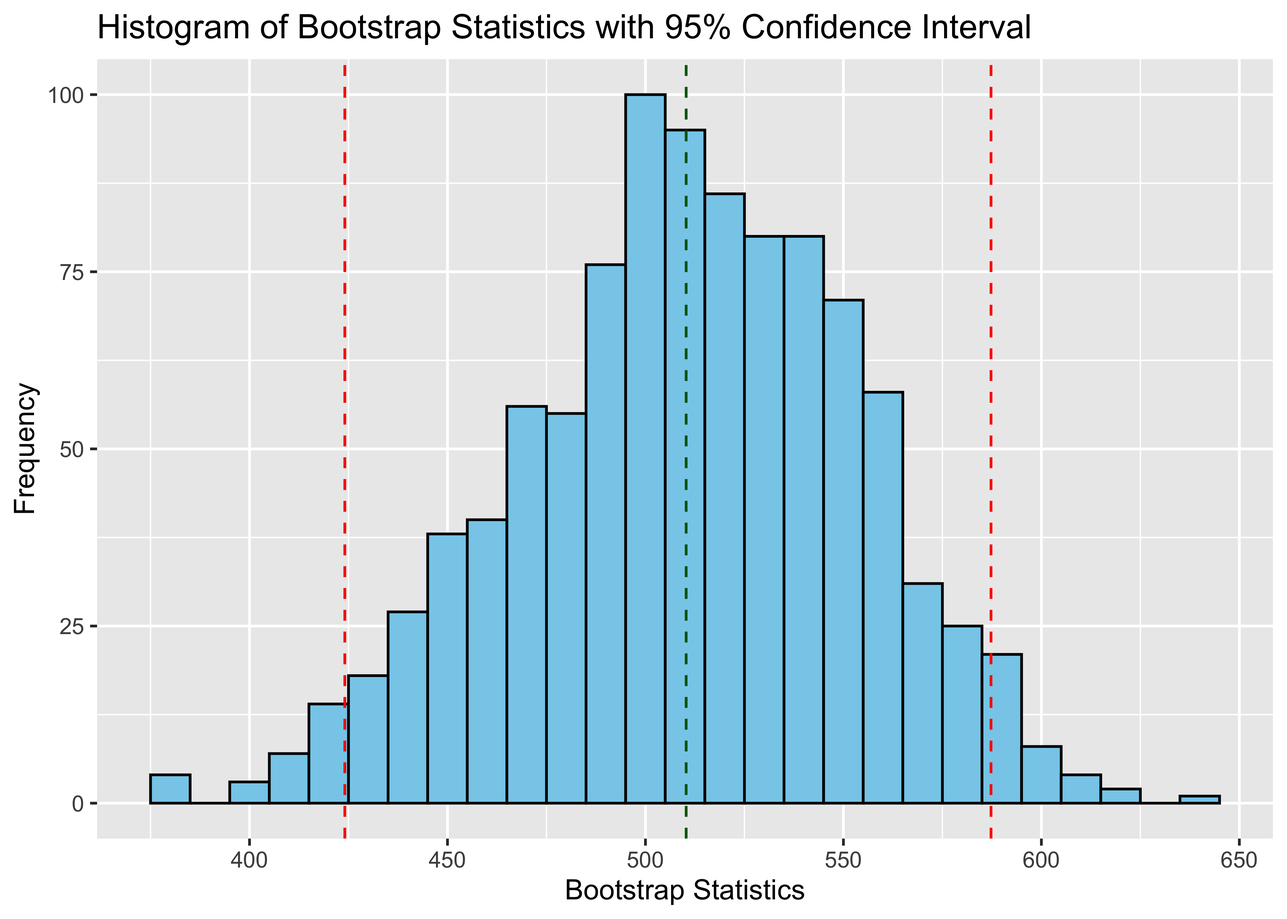
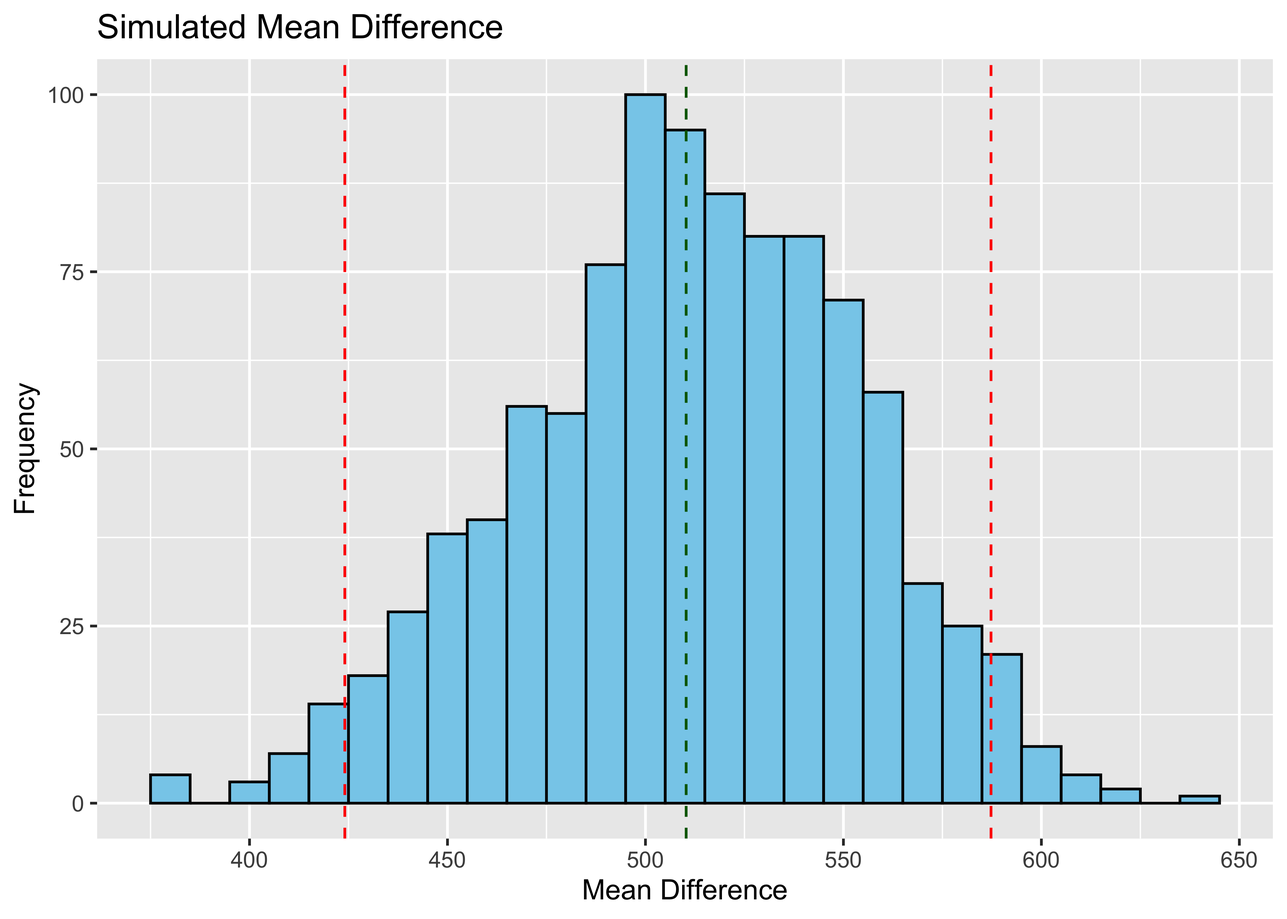
added bootstrap working

Changed region(s): [[0.0624, 0.0, 0.811, 0.062], [0.4367, 0.961, 0.6238, 0.992]]

diff --git a/docs/bootstrap.html b/docs/bootstrap.html
@@ -342,7 +342,7 @@ $(document).ready(function () {
       <a href="subsetting.html">Choosing a Subset</a>
     </li>
     <li>
-      <a href="cleaning.html">Data Cleaning and Feature Selection</a>
+      <a href="cleaning.html">Exploratory Data Analysis and General Cleaning</a>
     </li>
     <li>
       <a href="bootstrap.html">Bootstrapping: Minimum/Maximum Differences</a>
@@ -395,22 +395,13 @@ times to create a normal distribution. this will give us a confidence
 interval of that change.</p>
 <p>We will do this process multile times and thus create a confedience
 interval of those as well for an added layer of certainty.</p>
-<div class="sourceCode" id="cb1"><pre class="sourceCode r"><code class="sourceCode r"><span id="cb1-1"><a href="#cb1-1" tabindex="-1"></a><span class="fu">library</span>(<span class="st">&quot;sf&quot;</span>)</span></code></pre></div>
-<pre><code>## Linking to GEOS 3.11.0, GDAL 3.5.3, PROJ 9.1.0; sf_use_s2() is TRUE</code></pre>
-<div class="sourceCode" id="cb3"><pre class="sourceCode r"><code class="sourceCode r"><span id="cb3-1"><a href="#cb3-1" tabindex="-1"></a><span class="fu">library</span>(<span class="st">&quot;ggplot2&quot;</span>)</span>
-<span id="cb3-2"><a href="#cb3-2" tabindex="-1"></a><span class="fu">library</span>(<span class="st">&quot;readr&quot;</span>)</span>
-<span id="cb3-3"><a href="#cb3-3" tabindex="-1"></a><span class="fu">library</span>(<span class="st">&quot;tidyverse&quot;</span>)</span></code></pre></div>
-<pre><code>## ── Attaching core tidyverse packages ───────────────────────────────────────────────── tidyverse 2.0.0 ──
-## ✔ dplyr     1.1.4     ✔ stringr   1.5.1
-## ✔ forcats   1.0.0     ✔ tibble    3.2.1
-## ✔ lubridate 1.9.3     ✔ tidyr     1.3.0
-## ✔ purrr     1.0.2</code></pre>
-<pre><code>## ── Conflicts ─────────────────────────────────────────────────────────────────── tidyverse_conflicts() ──
-## ✖ dplyr::filter() masks stats::filter()
-## ✖ dplyr::lag()    masks stats::lag()
-## ℹ Use the conflicted package (&lt;http://conflicted.r-lib.org/&gt;) to force all conflicts to become errors</code></pre>
-<div class="sourceCode" id="cb6"><pre class="sourceCode r"><code class="sourceCode r"><span id="cb6-1"><a href="#cb6-1" tabindex="-1"></a><span class="co">#import cleaned dataset:</span></span>
-<span id="cb6-2"><a href="#cb6-2" tabindex="-1"></a>RS_full <span class="ot">&lt;-</span> <span class="fu">read_csv</span>(<span class="st">&quot;china_clean.csv&quot;</span>)</span></code></pre></div>
+<div class="sourceCode" id="cb1"><pre class="sourceCode r"><code class="sourceCode r"><span id="cb1-1"><a href="#cb1-1" tabindex="-1"></a><span class="fu">library</span>(<span class="st">&quot;sf&quot;</span>)</span>
+<span id="cb1-2"><a href="#cb1-2" tabindex="-1"></a><span class="fu">library</span>(<span class="st">&quot;ggplot2&quot;</span>)</span>
+<span id="cb1-3"><a href="#cb1-3" tabindex="-1"></a><span class="fu">library</span>(<span class="st">&quot;readr&quot;</span>)</span>
+<span id="cb1-4"><a href="#cb1-4" tabindex="-1"></a><span class="fu">library</span>(<span class="st">&quot;tidyverse&quot;</span>)</span>
+<span id="cb1-5"><a href="#cb1-5" tabindex="-1"></a><span class="fu">library</span>(<span class="st">&quot;tibble&quot;</span>)</span></code></pre></div>
+<div class="sourceCode" id="cb2"><pre class="sourceCode r"><code class="sourceCode r"><span id="cb2-1"><a href="#cb2-1" tabindex="-1"></a><span class="co">#import cleaned dataset:</span></span>
+<span id="cb2-2"><a href="#cb2-2" tabindex="-1"></a>RS_full <span class="ot">&lt;-</span> <span class="fu">read_csv</span>(<span class="st">&quot;china_clean.csv&quot;</span>)</span></code></pre></div>
 <pre><code>## Rows: 259 Columns: 74
 ## ── Column specification ─────────────────────────────────────────────────────────────────────────────────
 ## Delimiter: &quot;,&quot;
@@ -419,9 +410,9 @@ interval of those as well for an added layer of certainty.</p>
 ## 
 ## ℹ Use `spec()` to retrieve the full column specification for this data.
 ## ℹ Specify the column types or set `show_col_types = FALSE` to quiet this message.</code></pre>
-<div class="sourceCode" id="cb8"><pre class="sourceCode r"><code class="sourceCode r"><span id="cb8-1"><a href="#cb8-1" tabindex="-1"></a><span class="co">#lets just grab the two columns we are interested in:</span></span>
-<span id="cb8-2"><a href="#cb8-2" tabindex="-1"></a>RS <span class="ot">&lt;-</span> RS_full[, <span class="fu">c</span>(<span class="st">&#39;Study_midyear&#39;</span>, <span class="st">&#39;Rs_annual&#39;</span>)]</span>
-<span id="cb8-3"><a href="#cb8-3" tabindex="-1"></a><span class="fu">head</span>(RS)</span></code></pre></div>
+<div class="sourceCode" id="cb4"><pre class="sourceCode r"><code class="sourceCode r"><span id="cb4-1"><a href="#cb4-1" tabindex="-1"></a><span class="co">#lets just grab the two columns we are interested in:</span></span>
+<span id="cb4-2"><a href="#cb4-2" tabindex="-1"></a>RS <span class="ot">&lt;-</span> RS_full[, <span class="fu">c</span>(<span class="st">&#39;Study_midyear&#39;</span>, <span class="st">&#39;Rs_annual&#39;</span>)]</span>
+<span id="cb4-3"><a href="#cb4-3" tabindex="-1"></a><span class="fu">head</span>(RS)</span></code></pre></div>
 <pre><code>## # A tibble: 6 × 2
 ##   Study_midyear Rs_annual
 ##           &lt;dbl&gt;     &lt;dbl&gt;
@@ -431,67 +422,96 @@ interval of those as well for an added layer of certainty.</p>
 ## 4         2004.       781
 ## 5         2004.       514
 ## 6         2004.       403</code></pre>
-<div class="sourceCode" id="cb10"><pre class="sourceCode r"><code class="sourceCode r"><span id="cb10-1"><a href="#cb10-1" tabindex="-1"></a><span class="co">#make a function that can compute the mean difference of a dataframe column:</span></span>
-<span id="cb10-2"><a href="#cb10-2" tabindex="-1"></a>rs_mean <span class="ot">&lt;-</span> <span class="cf">function</span> (data, i){</span>
-<span id="cb10-3"><a href="#cb10-3" tabindex="-1"></a>  highs_and_lows<span class="ot">&lt;-</span> data[i, ] <span class="sc">%&gt;%</span> <span class="fu">group_by</span>(Study_midyear) <span class="sc">%&gt;%</span> <span class="fu">summarize</span>(<span class="at">High =</span> <span class="fu">max</span>(Rs_annual), <span class="at">Min =</span> <span class="fu">min</span>(Rs_annual))</span>
-<span id="cb10-4"><a href="#cb10-4" tabindex="-1"></a>  differences <span class="ot">&lt;-</span> <span class="fu">abs</span>(highs_and_lows<span class="sc">$</span>High <span class="sc">-</span> highs_and_lows<span class="sc">$</span>Min)</span>
-<span id="cb10-5"><a href="#cb10-5" tabindex="-1"></a>  <span class="fu">return</span>(<span class="fu">mean</span>(differences))}</span></code></pre></div>
-<div class="sourceCode" id="cb11"><pre class="sourceCode r"><code class="sourceCode r"><span id="cb11-1"><a href="#cb11-1" tabindex="-1"></a><span class="co"># import the bootstap package</span></span>
-<span id="cb11-2"><a href="#cb11-2" tabindex="-1"></a><span class="fu">library</span>(boot)</span>
-<span id="cb11-3"><a href="#cb11-3" tabindex="-1"></a></span>
-<span id="cb11-4"><a href="#cb11-4" tabindex="-1"></a>one_bootstrap <span class="ot">&lt;-</span> <span class="cf">function</span>(){</span>
-<span id="cb11-5"><a href="#cb11-5" tabindex="-1"></a>  result <span class="ot">&lt;-</span> <span class="fu">boot</span>(<span class="at">data =</span> RS, <span class="at">statistic =</span> rs_mean, <span class="at">R =</span> <span class="dv">1000</span>)</span>
-<span id="cb11-6"><a href="#cb11-6" tabindex="-1"></a>  <span class="fu">return</span> (result)}</span></code></pre></div>
+<div class="sourceCode" id="cb6"><pre class="sourceCode r"><code class="sourceCode r"><span id="cb6-1"><a href="#cb6-1" tabindex="-1"></a><span class="co">#make a function that can compute the mean difference of a dataframe column:</span></span>
+<span id="cb6-2"><a href="#cb6-2" tabindex="-1"></a>rs_mean <span class="ot">&lt;-</span> <span class="cf">function</span> (data, i){</span>
+<span id="cb6-3"><a href="#cb6-3" tabindex="-1"></a>  highs_and_lows<span class="ot">&lt;-</span> data[i, ] <span class="sc">%&gt;%</span> <span class="fu">group_by</span>(Study_midyear) <span class="sc">%&gt;%</span> <span class="fu">summarize</span>(<span class="at">High =</span> <span class="fu">max</span>(Rs_annual), <span class="at">Min =</span> <span class="fu">min</span>(Rs_annual))</span>
+<span id="cb6-4"><a href="#cb6-4" tabindex="-1"></a>  differences <span class="ot">&lt;-</span> <span class="fu">abs</span>(highs_and_lows<span class="sc">$</span>High <span class="sc">-</span> highs_and_lows<span class="sc">$</span>Min)</span>
+<span id="cb6-5"><a href="#cb6-5" tabindex="-1"></a>  <span class="fu">return</span>(<span class="fu">mean</span>(differences))}</span></code></pre></div>
+<div class="sourceCode" id="cb7"><pre class="sourceCode r"><code class="sourceCode r"><span id="cb7-1"><a href="#cb7-1" tabindex="-1"></a><span class="co"># import the bootstap package</span></span>
+<span id="cb7-2"><a href="#cb7-2" tabindex="-1"></a><span class="fu">library</span>(boot)</span>
+<span id="cb7-3"><a href="#cb7-3" tabindex="-1"></a></span>
+<span id="cb7-4"><a href="#cb7-4" tabindex="-1"></a>one_bootstrap <span class="ot">&lt;-</span> <span class="cf">function</span>(){</span>
+<span id="cb7-5"><a href="#cb7-5" tabindex="-1"></a>  result <span class="ot">&lt;-</span> <span class="fu">boot</span>(<span class="at">data =</span> RS, <span class="at">statistic =</span> rs_mean, <span class="at">R =</span> <span class="dv">1000</span>)</span>
+<span id="cb7-6"><a href="#cb7-6" tabindex="-1"></a>  <span class="fu">return</span> (result)}</span></code></pre></div>
 <p>Great, now we have some infestructure to run bootstrap simulations.
 First off let’s investigate one bootstrap iteration and its associated
 confidence interval: # visualizing the confidence interval of this one
 bootstraped simmulation:</p>
-<div class="sourceCode" id="cb12"><pre class="sourceCode r"><code class="sourceCode r"><span id="cb12-1"><a href="#cb12-1" tabindex="-1"></a><span class="co">#get one set bootstrap statistics</span></span>
-<span id="cb12-2"><a href="#cb12-2" tabindex="-1"></a>boot_results <span class="ot">&lt;-</span> <span class="fu">one_bootstrap</span>()<span class="sc">$</span>t</span>
-<span id="cb12-3"><a href="#cb12-3" tabindex="-1"></a></span>
-<span id="cb12-4"><a href="#cb12-4" tabindex="-1"></a><span class="co"># find the mean and CI </span></span>
-<span id="cb12-5"><a href="#cb12-5" tabindex="-1"></a>boot_mean <span class="ot">&lt;-</span> <span class="fu">mean</span>(boot_results)</span>
-<span id="cb12-6"><a href="#cb12-6" tabindex="-1"></a><span class="co">#we are looking at the middle 95%</span></span>
-<span id="cb12-7"><a href="#cb12-7" tabindex="-1"></a>boot_ci <span class="ot">&lt;-</span> <span class="fu">quantile</span>(boot_results, <span class="fu">c</span>(<span class="fl">0.025</span>, <span class="fl">0.975</span>))</span>
-<span id="cb12-8"><a href="#cb12-8" tabindex="-1"></a></span>
-<span id="cb12-9"><a href="#cb12-9" tabindex="-1"></a><span class="co"># for plotting the data, we can all of the sub iterations into a DataFrame</span></span>
-<span id="cb12-10"><a href="#cb12-10" tabindex="-1"></a>plot_data <span class="ot">&lt;-</span> <span class="fu">data.frame</span>(<span class="at">mean_statistic =</span> boot_results)</span>
-<span id="cb12-11"><a href="#cb12-11" tabindex="-1"></a></span>
-<span id="cb12-12"><a href="#cb12-12" tabindex="-1"></a><span class="co"># Plot using ggplot2</span></span>
-<span id="cb12-13"><a href="#cb12-13" tabindex="-1"></a><span class="fu">ggplot</span>(plot_data, <span class="fu">aes</span>(<span class="at">x =</span> mean_statistic)) <span class="sc">+</span></span>
-<span id="cb12-14"><a href="#cb12-14" tabindex="-1"></a>  <span class="fu">geom_histogram</span>(<span class="at">binwidth =</span> <span class="dv">10</span>, <span class="at">fill =</span> <span class="st">&quot;skyblue&quot;</span>, <span class="at">color =</span> <span class="st">&quot;black&quot;</span>) <span class="sc">+</span></span>
-<span id="cb12-15"><a href="#cb12-15" tabindex="-1"></a>  <span class="co">#Plotting the CI</span></span>
-<span id="cb12-16"><a href="#cb12-16" tabindex="-1"></a>  <span class="fu">geom_vline</span>(<span class="at">xintercept =</span> boot_ci[<span class="dv">1</span>], <span class="at">color =</span> <span class="st">&quot;red&quot;</span>, <span class="at">linetype =</span> <span class="st">&quot;dashed&quot;</span>) <span class="sc">+</span></span>
-<span id="cb12-17"><a href="#cb12-17" tabindex="-1"></a>  <span class="fu">geom_vline</span>(<span class="at">xintercept =</span> boot_ci[<span class="dv">2</span>], <span class="at">color =</span> <span class="st">&quot;red&quot;</span>, <span class="at">linetype =</span> <span class="st">&quot;dashed&quot;</span>) <span class="sc">+</span></span>
-<span id="cb12-18"><a href="#cb12-18" tabindex="-1"></a>  <span class="co">#plotting the mean</span></span>
-<span id="cb12-19"><a href="#cb12-19" tabindex="-1"></a>  <span class="fu">geom_vline</span>(<span class="at">xintercept =</span> boot_mean, <span class="at">color =</span> <span class="st">&quot;darkgreen&quot;</span>, <span class="at">linetype =</span> <span class="st">&quot;dashed&quot;</span>) <span class="sc">+</span></span>
-<span id="cb12-20"><a href="#cb12-20" tabindex="-1"></a>  <span class="fu">labs</span>(<span class="at">x =</span> <span class="st">&quot;Bootstrap Statistics&quot;</span>, <span class="at">y =</span> <span class="st">&quot;Frequency&quot;</span>) <span class="sc">+</span></span>
-<span id="cb12-21"><a href="#cb12-21" tabindex="-1"></a>  <span class="fu">ggtitle</span>(<span class="st">&quot;Histogram of Bootstrap Statistics with 95% Confidence Interval&quot;</span>)</span></code></pre></div>
+<div class="sourceCode" id="cb8"><pre class="sourceCode r"><code class="sourceCode r"><span id="cb8-1"><a href="#cb8-1" tabindex="-1"></a><span class="co">#get one set bootstrap statistics</span></span>
+<span id="cb8-2"><a href="#cb8-2" tabindex="-1"></a>boot_results <span class="ot">&lt;-</span> <span class="fu">one_bootstrap</span>()<span class="sc">$</span>t</span>
+<span id="cb8-3"><a href="#cb8-3" tabindex="-1"></a></span>
+<span id="cb8-4"><a href="#cb8-4" tabindex="-1"></a><span class="co"># find the mean and CI </span></span>
+<span id="cb8-5"><a href="#cb8-5" tabindex="-1"></a>boot_mean <span class="ot">&lt;-</span> <span class="fu">mean</span>(boot_results)</span>
+<span id="cb8-6"><a href="#cb8-6" tabindex="-1"></a><span class="co">#we are looking at the middle 95%</span></span>
+<span id="cb8-7"><a href="#cb8-7" tabindex="-1"></a>boot_ci <span class="ot">&lt;-</span> <span class="fu">quantile</span>(boot_results, <span class="fu">c</span>(<span class="fl">0.025</span>, <span class="fl">0.975</span>))</span>
+<span id="cb8-8"><a href="#cb8-8" tabindex="-1"></a></span>
+<span id="cb8-9"><a href="#cb8-9" tabindex="-1"></a><span class="co"># for plotting the data, we can all of the sub iterations into a DataFrame</span></span>
+<span id="cb8-10"><a href="#cb8-10" tabindex="-1"></a>plot_data <span class="ot">&lt;-</span> <span class="fu">data.frame</span>(<span class="at">mean_statistic =</span> boot_results)</span>
+<span id="cb8-11"><a href="#cb8-11" tabindex="-1"></a></span>
+<span id="cb8-12"><a href="#cb8-12" tabindex="-1"></a><span class="co"># Plot using ggplot2</span></span>
+<span id="cb8-13"><a href="#cb8-13" tabindex="-1"></a><span class="fu">ggplot</span>(plot_data, <span class="fu">aes</span>(<span class="at">x =</span> mean_statistic)) <span class="sc">+</span></span>
+<span id="cb8-14"><a href="#cb8-14" tabindex="-1"></a>  <span class="fu">geom_histogram</span>(<span class="at">binwidth =</span> <span class="dv">10</span>, <span class="at">fill =</span> <span class="st">&quot;skyblue&quot;</span>, <span class="at">color =</span> <span class="st">&quot;black&quot;</span>) <span class="sc">+</span></span>
+<span id="cb8-15"><a href="#cb8-15" tabindex="-1"></a>  <span class="co">#Plotting the CI</span></span>
+<span id="cb8-16"><a href="#cb8-16" tabindex="-1"></a>  <span class="fu">geom_vline</span>(<span class="at">xintercept =</span> boot_ci[<span class="dv">1</span>], <span class="at">color =</span> <span class="st">&quot;red&quot;</span>, <span class="at">linetype =</span> <span class="st">&quot;dashed&quot;</span>) <span class="sc">+</span></span>
+<span id="cb8-17"><a href="#cb8-17" tabindex="-1"></a>  <span class="fu">geom_vline</span>(<span class="at">xintercept =</span> boot_ci[<span class="dv">2</span>], <span class="at">color =</span> <span class="st">&quot;red&quot;</span>, <span class="at">linetype =</span> <span class="st">&quot;dashed&quot;</span>) <span class="sc">+</span></span>
+<span id="cb8-18"><a href="#cb8-18" tabindex="-1"></a>  <span class="co">#plotting the mean</span></span>
+<span id="cb8-19"><a href="#cb8-19" tabindex="-1"></a>  <span class="fu">geom_vline</span>(<span class="at">xintercept =</span> boot_mean, <span class="at">color =</span> <span class="st">&quot;darkgreen&quot;</span>, <span class="at">linetype =</span> <span class="st">&quot;dashed&quot;</span>) <span class="sc">+</span></span>
+<span id="cb8-20"><a href="#cb8-20" tabindex="-1"></a>  <span class="fu">labs</span>(<span class="at">x =</span> <span class="st">&quot;Mean Difference&quot;</span>, <span class="at">y =</span> <span class="st">&quot;Frequency&quot;</span>) <span class="sc">+</span></span>
+<span id="cb8-21"><a href="#cb8-21" tabindex="-1"></a>  <span class="fu">ggtitle</span>(<span class="st">&quot;Simulated Mean Difference&quot;</span>)</span></code></pre></div>
 <p><img src="bootstrap_files/figure-html/unnamed-chunk-5-1.png" width="2100" />
 lets just make sure we get two different sets of results if we run our
 simulation agian:</p>
-<div class="sourceCode" id="cb13"><pre class="sourceCode r"><code class="sourceCode r"><span id="cb13-1"><a href="#cb13-1" tabindex="-1"></a><span class="co">#get one set bootstrap statistics</span></span>
-<span id="cb13-2"><a href="#cb13-2" tabindex="-1"></a>boot_results <span class="ot">&lt;-</span> <span class="fu">one_bootstrap</span>()<span class="sc">$</span>t</span>
-<span id="cb13-3"><a href="#cb13-3" tabindex="-1"></a></span>
-<span id="cb13-4"><a href="#cb13-4" tabindex="-1"></a><span class="co"># find the mean and CI </span></span>
-<span id="cb13-5"><a href="#cb13-5" tabindex="-1"></a>boot_mean <span class="ot">&lt;-</span> <span class="fu">mean</span>(boot_results)</span>
-<span id="cb13-6"><a href="#cb13-6" tabindex="-1"></a><span class="co">#we are looking at the middle 95%</span></span>
-<span id="cb13-7"><a href="#cb13-7" tabindex="-1"></a>boot_ci <span class="ot">&lt;-</span> <span class="fu">quantile</span>(boot_results, <span class="fu">c</span>(<span class="fl">0.025</span>, <span class="fl">0.975</span>))</span>
-<span id="cb13-8"><a href="#cb13-8" tabindex="-1"></a></span>
-<span id="cb13-9"><a href="#cb13-9" tabindex="-1"></a><span class="co"># for plotting the data, we can all of the sub iterations into a DataFrame</span></span>
-<span id="cb13-10"><a href="#cb13-10" tabindex="-1"></a>plot_data <span class="ot">&lt;-</span> <span class="fu">data.frame</span>(<span class="at">mean_statistic =</span> boot_results)</span>
-<span id="cb13-11"><a href="#cb13-11" tabindex="-1"></a></span>
-<span id="cb13-12"><a href="#cb13-12" tabindex="-1"></a><span class="co"># Plot using ggplot2</span></span>
-<span id="cb13-13"><a href="#cb13-13" tabindex="-1"></a><span class="fu">ggplot</span>(plot_data, <span class="fu">aes</span>(<span class="at">x =</span> mean_statistic)) <span class="sc">+</span></span>
-<span id="cb13-14"><a href="#cb13-14" tabindex="-1"></a>  <span class="fu">geom_histogram</span>(<span class="at">binwidth =</span> <span class="dv">10</span>, <span class="at">fill =</span> <span class="st">&quot;skyblue&quot;</span>, <span class="at">color =</span> <span class="st">&quot;black&quot;</span>) <span class="sc">+</span></span>
-<span id="cb13-15"><a href="#cb13-15" tabindex="-1"></a>  <span class="co">#Plotting the CI</span></span>
-<span id="cb13-16"><a href="#cb13-16" tabindex="-1"></a>  <span class="fu">geom_vline</span>(<span class="at">xintercept =</span> boot_ci[<span class="dv">1</span>], <span class="at">color =</span> <span class="st">&quot;red&quot;</span>, <span class="at">linetype =</span> <span class="st">&quot;dashed&quot;</span>) <span class="sc">+</span></span>
-<span id="cb13-17"><a href="#cb13-17" tabindex="-1"></a>  <span class="fu">geom_vline</span>(<span class="at">xintercept =</span> boot_ci[<span class="dv">2</span>], <span class="at">color =</span> <span class="st">&quot;red&quot;</span>, <span class="at">linetype =</span> <span class="st">&quot;dashed&quot;</span>) <span class="sc">+</span></span>
-<span id="cb13-18"><a href="#cb13-18" tabindex="-1"></a>  <span class="co">#plotting the mean</span></span>
-<span id="cb13-19"><a href="#cb13-19" tabindex="-1"></a>  <span class="fu">geom_vline</span>(<span class="at">xintercept =</span> boot_mean, <span class="at">color =</span> <span class="st">&quot;darkgreen&quot;</span>, <span class="at">linetype =</span> <span class="st">&quot;dashed&quot;</span>) <span class="sc">+</span></span>
-<span id="cb13-20"><a href="#cb13-20" tabindex="-1"></a>  <span class="fu">labs</span>(<span class="at">x =</span> <span class="st">&quot;Bootstrap Statistics&quot;</span>, <span class="at">y =</span> <span class="st">&quot;Frequency&quot;</span>) <span class="sc">+</span></span>
-<span id="cb13-21"><a href="#cb13-21" tabindex="-1"></a>  <span class="fu">ggtitle</span>(<span class="st">&quot;Histogram of Bootstrap Statistics with 95% Confidence Interval&quot;</span>)</span></code></pre></div>
-<p><img src="bootstrap_files/figure-html/unnamed-chunk-6-1.png" width="2100" /></p>
+<div class="sourceCode" id="cb9"><pre class="sourceCode r"><code class="sourceCode r"><span id="cb9-1"><a href="#cb9-1" tabindex="-1"></a><span class="co">#get one set bootstrap statistics</span></span>
+<span id="cb9-2"><a href="#cb9-2" tabindex="-1"></a>boot_results <span class="ot">&lt;-</span> <span class="fu">one_bootstrap</span>()<span class="sc">$</span>t</span>
+<span id="cb9-3"><a href="#cb9-3" tabindex="-1"></a></span>
+<span id="cb9-4"><a href="#cb9-4" tabindex="-1"></a><span class="co"># find the mean and CI </span></span>
+<span id="cb9-5"><a href="#cb9-5" tabindex="-1"></a>boot_mean <span class="ot">&lt;-</span> <span class="fu">mean</span>(boot_results)</span>
+<span id="cb9-6"><a href="#cb9-6" tabindex="-1"></a><span class="co">#we are looking at the middle 95%</span></span>
+<span id="cb9-7"><a href="#cb9-7" tabindex="-1"></a>boot_ci <span class="ot">&lt;-</span> <span class="fu">quantile</span>(boot_results, <span class="fu">c</span>(<span class="fl">0.025</span>, <span class="fl">0.975</span>))</span>
+<span id="cb9-8"><a href="#cb9-8" tabindex="-1"></a></span>
+<span id="cb9-9"><a href="#cb9-9" tabindex="-1"></a><span class="co"># for plotting the data, we can all of the sub iterations into a DataFrame</span></span>
+<span id="cb9-10"><a href="#cb9-10" tabindex="-1"></a>plot_data <span class="ot">&lt;-</span> <span class="fu">data.frame</span>(<span class="at">mean_statistic =</span> boot_results)</span>
+<span id="cb9-11"><a href="#cb9-11" tabindex="-1"></a></span>
+<span id="cb9-12"><a href="#cb9-12" tabindex="-1"></a><span class="co"># Plot using ggplot2</span></span>
+<span id="cb9-13"><a href="#cb9-13" tabindex="-1"></a><span class="fu">ggplot</span>(plot_data, <span class="fu">aes</span>(<span class="at">x =</span> mean_statistic)) <span class="sc">+</span></span>
+<span id="cb9-14"><a href="#cb9-14" tabindex="-1"></a>  <span class="fu">geom_histogram</span>(<span class="at">binwidth =</span> <span class="dv">10</span>, <span class="at">fill =</span> <span class="st">&quot;skyblue&quot;</span>, <span class="at">color =</span> <span class="st">&quot;black&quot;</span>) <span class="sc">+</span></span>
+<span id="cb9-15"><a href="#cb9-15" tabindex="-1"></a>  <span class="co">#Plotting the CI</span></span>
+<span id="cb9-16"><a href="#cb9-16" tabindex="-1"></a>  <span class="fu">geom_vline</span>(<span class="at">xintercept =</span> boot_ci[<span class="dv">1</span>], <span class="at">color =</span> <span class="st">&quot;red&quot;</span>, <span class="at">linetype =</span> <span class="st">&quot;dashed&quot;</span>) <span class="sc">+</span></span>
+<span id="cb9-17"><a href="#cb9-17" tabindex="-1"></a>  <span class="fu">geom_vline</span>(<span class="at">xintercept =</span> boot_ci[<span class="dv">2</span>], <span class="at">color =</span> <span class="st">&quot;red&quot;</span>, <span class="at">linetype =</span> <span class="st">&quot;dashed&quot;</span>) <span class="sc">+</span></span>
+<span id="cb9-18"><a href="#cb9-18" tabindex="-1"></a>  <span class="co">#plotting the mean</span></span>
+<span id="cb9-19"><a href="#cb9-19" tabindex="-1"></a>  <span class="fu">geom_vline</span>(<span class="at">xintercept =</span> boot_mean, <span class="at">color =</span> <span class="st">&quot;darkgreen&quot;</span>, <span class="at">linetype =</span> <span class="st">&quot;dashed&quot;</span>) <span class="sc">+</span></span>
+<span id="cb9-20"><a href="#cb9-20" tabindex="-1"></a>  <span class="fu">labs</span>(<span class="at">x =</span> <span class="st">&quot;Mean Difference&quot;</span>, <span class="at">y =</span> <span class="st">&quot;Frequency&quot;</span>) <span class="sc">+</span></span>
+<span id="cb9-21"><a href="#cb9-21" tabindex="-1"></a>  <span class="fu">ggtitle</span>(<span class="st">&quot;Simulated Mean Difference&quot;</span>)</span></code></pre></div>
+<p><img src="bootstrap_files/figure-html/unnamed-chunk-6-1.png" width="2100" />
+Now we can run this simulation a set number of times to determine the
+distribution of bootstrapped means and confidence intervals (because you
+can see that they also vary by simulation)</p>
+<div class="sourceCode" id="cb10"><pre class="sourceCode r"><code class="sourceCode r"><span id="cb10-1"><a href="#cb10-1" tabindex="-1"></a><span class="co">#how many bootstraps to run</span></span>
+<span id="cb10-2"><a href="#cb10-2" tabindex="-1"></a>n <span class="ot">&lt;-</span> <span class="fu">c</span>(<span class="dv">1</span><span class="sc">:</span><span class="dv">10</span>)</span>
+<span id="cb10-3"><a href="#cb10-3" tabindex="-1"></a></span>
+<span id="cb10-4"><a href="#cb10-4" tabindex="-1"></a><span class="co">#creating an empty dataframe to store each new value of the BS</span></span>
+<span id="cb10-5"><a href="#cb10-5" tabindex="-1"></a>ci_and_stat <span class="ot">&lt;-</span> <span class="fu">data.frame</span>(</span>
+<span id="cb10-6"><a href="#cb10-6" tabindex="-1"></a>  <span class="at">low =</span> <span class="fu">integer</span>(),</span>
+<span id="cb10-7"><a href="#cb10-7" tabindex="-1"></a>  <span class="at">high =</span> <span class="fu">integer</span>(), </span>
+<span id="cb10-8"><a href="#cb10-8" tabindex="-1"></a>  <span class="at">mean =</span> <span class="fu">integer</span>())</span>
+<span id="cb10-9"><a href="#cb10-9" tabindex="-1"></a></span>
+<span id="cb10-10"><a href="#cb10-10" tabindex="-1"></a><span class="co">#running the sim</span></span>
+<span id="cb10-11"><a href="#cb10-11" tabindex="-1"></a><span class="cf">for</span> (num <span class="cf">in</span> n){</span>
+<span id="cb10-12"><a href="#cb10-12" tabindex="-1"></a>  <span class="co">#run one bootstrap</span></span>
+<span id="cb10-13"><a href="#cb10-13" tabindex="-1"></a>  boot_stat <span class="ot">&lt;-</span> <span class="fu">one_bootstrap</span>()<span class="sc">$</span>t</span>
+<span id="cb10-14"><a href="#cb10-14" tabindex="-1"></a>  </span>
+<span id="cb10-15"><a href="#cb10-15" tabindex="-1"></a>  <span class="co">#get the CIs</span></span>
+<span id="cb10-16"><a href="#cb10-16" tabindex="-1"></a>  boot_ci <span class="ot">&lt;-</span> <span class="fu">quantile</span>(boot_stat, <span class="fu">c</span>(<span class="fl">0.025</span>, <span class="fl">0.975</span>))</span>
+<span id="cb10-17"><a href="#cb10-17" tabindex="-1"></a>  low_ci <span class="ot">&lt;-</span> boot_ci[<span class="dv">1</span>]</span>
+<span id="cb10-18"><a href="#cb10-18" tabindex="-1"></a>  high_ci <span class="ot">&lt;-</span> boot_ci[<span class="dv">2</span>]</span>
+<span id="cb10-19"><a href="#cb10-19" tabindex="-1"></a>  </span>
+<span id="cb10-20"><a href="#cb10-20" tabindex="-1"></a>  <span class="co">#add it to the dataframe at the nth row in list form</span></span>
+<span id="cb10-21"><a href="#cb10-21" tabindex="-1"></a>  ci_and_stat <span class="ot">&lt;-</span> <span class="fu">rbind</span>(ci_and_stat, <span class="fu">list</span>(low_ci, high_ci, <span class="fu">mean</span>(boot_stat)))</span>
+<span id="cb10-22"><a href="#cb10-22" tabindex="-1"></a>}</span></code></pre></div>
+<p>Awesome, now we can plot these to see the distribution of confidence
+intervals and get a pretty good gauge of our simulated statistic:</p>
+<p>If the low is more than the mean or if the high is less than the mean
+make it stand out.</p>
 </div>
 
 

diff --git a/docs/intro.html b/docs/intro.html
@@ -245,7 +245,7 @@ $(document).ready(function () {
       <a href="subsetting.html">Choosing a Subset</a>
     </li>
     <li>
-      <a href="cleaning.html">Data Cleaning and Feature Selection</a>
+      <a href="cleaning.html">Exploratory Data Analysis and General Cleaning</a>
     </li>
     <li>
       <a href="bootstrap.html">Bootstrapping: Minimum/Maximum Differences</a>
@@ -275,12 +275,13 @@ $(document).ready(function () {
 class="section level1">
 <h1>About The Global Soil Respiration Database:</h1>
 <p><img src="SRDB_V5_Figure1.jpg"
-alt="SRDB Distribution of Data by Oak Ridge National Labratory" /> A
-Global Database of Soil Respiration Data (SRDB) was updated in 2021 as
-Version 5.0 as a project by Oak Ridge National Laboratory. This includes
-multiple files, the main of which include the data file, contributor
-information file, and the calculations used to estimate and predict
-missing values.</p>
+alt="SRDB Distribution of Data by Oak Ridge National Labratory" /> Map
+by Oakridge National Labratory</p>
+<p>A Global Database of Soil Respiration Data (SRDB) was updated in 2021
+as Version 5.0 as a project by Oak Ridge National Laboratory. This
+includes multiple files, the main of which include the data file,
+contributor information file, and the calculations used to estimate and
+predict missing values.</p>
 <p>The nature of this database is very interesting. The set covers a
 very broad temporal and spatial scope, containing data from 2,266
 publications pertaining to years between 1961 and 2017. This data covers
